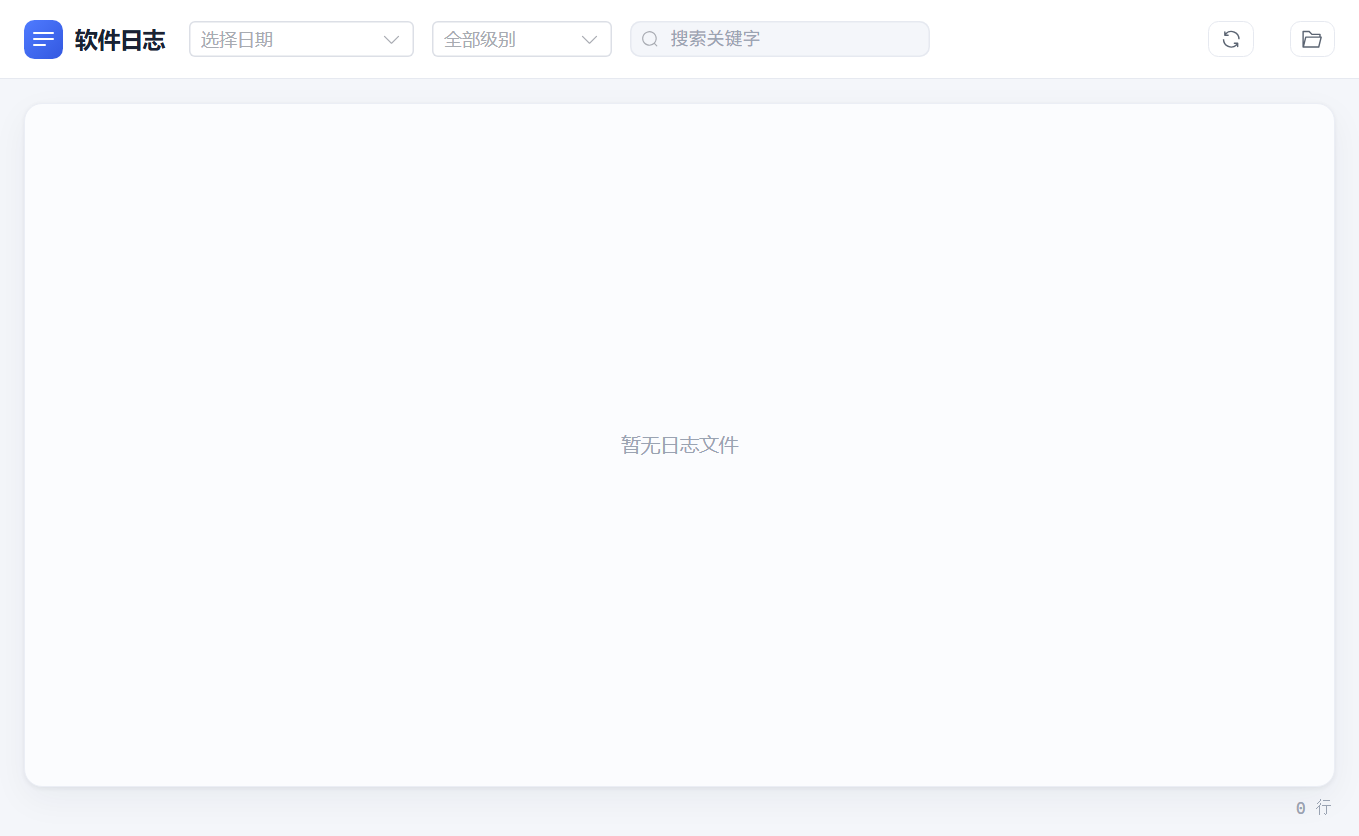
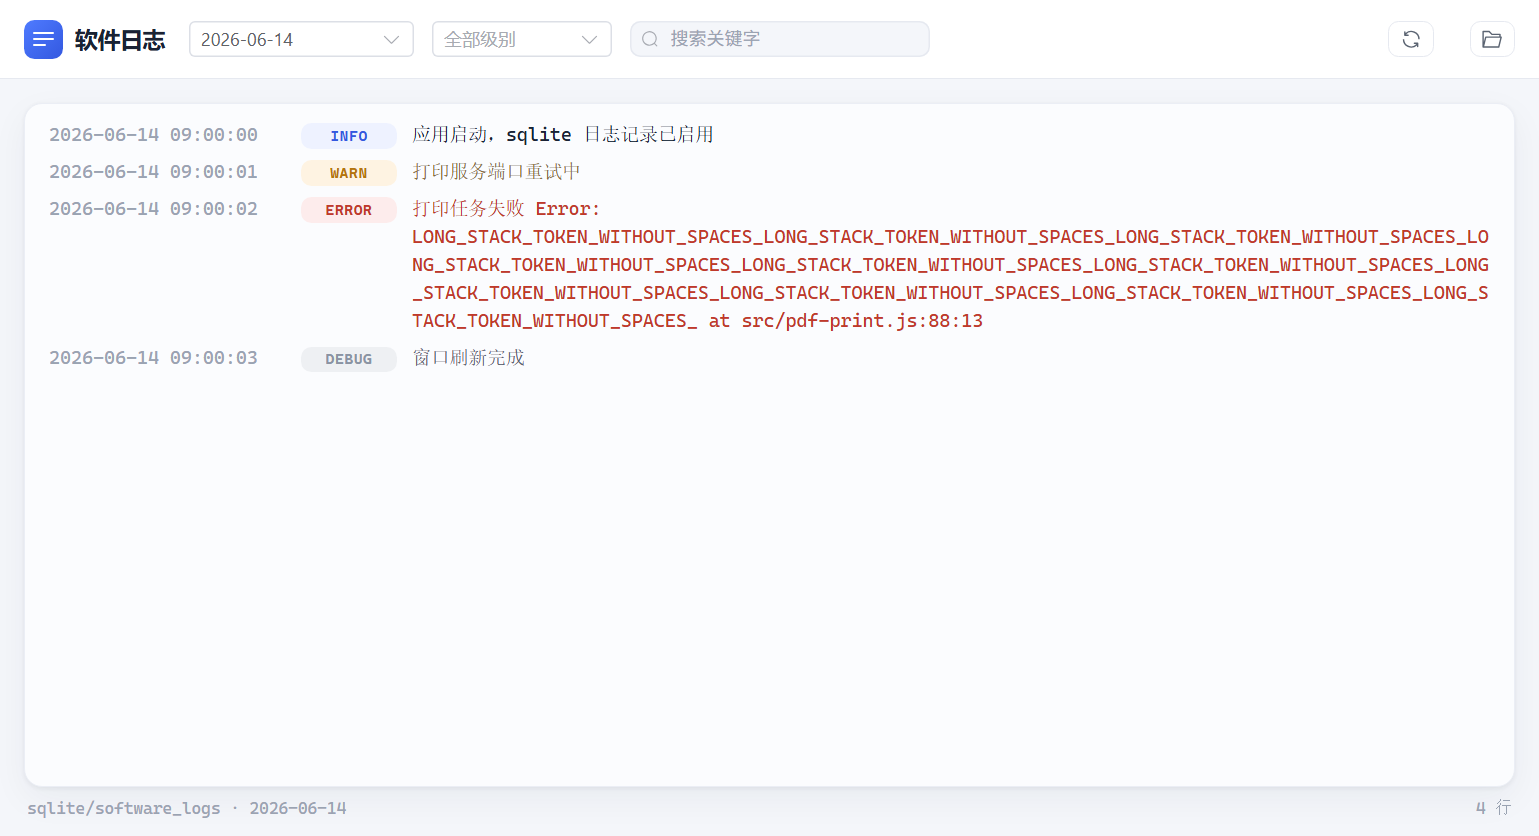
Keep log windows visually inspectable
The print log status column was narrower than the Element Plus cell content, so populated rows showed an ellipsis after the status pill even though the pill text itself fit. The capture harness also generated empty/stale log screenshots, which hid the real visual state of the sqlite-backed software log window.

Constraint: Log windows load generated assets/*.html in packaged/runtime verification.

Rejected: Only refreshing screenshots | would preserve the status-cell clipping defect.

Confidence: high

Scope-risk: narrow

Directive: Keep print/software log visual smoke checks on generated app:// assets, not only Vue source.

Tested: npm run build:renderer

Tested: npm run typecheck

Tested: npx electron tools/repro/runtime/printlog-scroll-layout-check.js

Tested: npx electron tools/repro/runtime/softwarelog-window-render-smoke.js

Tested: npx electron tools/repro/runtime/printlog-window-render-smoke.js

Tested: node tools/repro/runtime/software-log-sqlite-contract-check.js

Tested: HIPRINT_CAPTURE_TARGETS=printLog,softwareLog npx electron tools/repro/runtime/capture-windows.js

Not-tested: Full installer rebuild and reinstall for this UI-only change.

diff --git a/tools/repro/runtime/capture-windows.js b/tools/repro/runtime/capture-windows.js
@@ -2,6 +2,8 @@
 
 // 截取已迁移窗口的真实渲染图（需真实 Electron），用于 UI 审查。
 // 经 app:// 加载各窗口 + 真实 preload，capturePage 存 PNG 到 docs/ui-redesign/rendered-*.png。
+// 可选：HIPRINT_CAPTURE_TARGETS=printLog,softwareLog 只截指定窗口；
+//      HIPRINT_CAPTURE_OUT_DIR=.omx/artifacts/ui-capture 输出到临时目录。
 // 运行：npx electron tools/repro/runtime/capture-windows.js
 
 const path = require("path");
@@ -34,6 +36,33 @@ ipcMain.on("hiprint:settings-snapshot", (event) => {
   };
 });
 ipcMain.on("setContentSize", () => {});
+ipcMain.on("request-logs", (event) => {
+  event.sender.send("print-logs", {
+    rows: buildPrintLogRows(18),
+    total: 18,
+  });
+});
+ipcMain.on("clear-logs", () => {});
+ipcMain.on("reprint", () => {});
+ipcMain.handle("software-log:list-dates", () => ["2026-06-14", "2026-06-13"]);
+ipcMain.handle("software-log:read", (_event, date) => ({
+  file: String(date),
+  truncated: false,
+  lines: [
+    { ts: "2026-06-14 09:00:00", level: "info", msg: "应用启动，sqlite 日志记录已启用" },
+    { ts: "2026-06-14 09:00:01", level: "warn", msg: "打印服务端口重试中" },
+    {
+      ts: "2026-06-14 09:00:02",
+      level: "error",
+      msg:
+        "打印任务失败 Error: " +
+        "LONG_STACK_TOKEN_WITHOUT_SPACES_".repeat(10) +
+        " at src/pdf-print.js:88:13",
+    },
+    { ts: "2026-06-14 09:00:03", level: "debug", msg: "窗口刷新完成" },
+  ],
+}));
+ipcMain.on("software-log:open-folder", () => {});
 
 const {
   registerAssetSchemeAsPrivileged,
@@ -43,8 +72,32 @@ const {
 registerAssetSchemeAsPrivileged();
 app.disableHardwareAcceleration();
 
-const OUT_DIR = path.join(REPO_ROOT, "docs/ui-redesign");
-const TARGETS = [
+function buildPrintLogRows(count) {
+  return Array.from({ length: count }, (_, index) => ({
+    id: index + 1,
+    timestamp: `2026-06-14 09:${String(index).padStart(2, "0")}:00`,
+    clientType: index % 2 ? "transit" : "local",
+    printer: index % 3 ? "ZDesigner ZT211-203dpi ZPL" : "Microsoft Print to PDF",
+    templateId: `shipping-label-${index + 1}`,
+    pageNum: (index % 4) + 1,
+    status: index % 5 ? "success" : "failed",
+    errorMessage: index % 5
+      ? ""
+      : "打印机返回超长错误：" + "PAPER_OUT_STATUS_TOKEN_".repeat(8),
+    rePrintAble: 1,
+  }));
+}
+
+const OUT_DIR = process.env.HIPRINT_CAPTURE_OUT_DIR
+  ? path.resolve(REPO_ROOT, process.env.HIPRINT_CAPTURE_OUT_DIR)
+  : path.join(REPO_ROOT, "docs/ui-redesign");
+const TARGET_FILTER = new Set(
+  String(process.env.HIPRINT_CAPTURE_TARGETS || "")
+    .split(",")
+    .map((name) => name.trim())
+    .filter(Boolean),
+);
+const ALL_TARGETS = [
   { name: "index", preload: "src/preload/index.js", width: 500, height: 300 },
   { name: "set", preload: "src/preload/set.js", width: 520, height: 720 },
   {
@@ -56,10 +109,12 @@ const TARGETS = [
   {
     name: "softwareLog",
     preload: "src/preload/softwareLog.js",
-    width: 920,
+    width: 1040,
     height: 620,
   },
 ];
+const TARGETS =
+  TARGET_FILTER.size > 0 ? ALL_TARGETS.filter((target) => TARGET_FILTER.has(target.name)) : ALL_TARGETS;
 
 async function captureOne(target) {
   const win = new BrowserWindow({
@@ -85,6 +140,21 @@ async function captureOne(target) {
   return outPath;
 }
 
+let finished = false;
+function finish(saved, code) {
+  if (finished) return;
+  finished = true;
+  console.log("CAPTURE_DONE " + JSON.stringify(saved));
+  app.exit(code);
+  const forceExit = setTimeout(() => process.exit(code), 1000);
+  forceExit.unref && forceExit.unref();
+}
+
+const killTimer = setTimeout(() => {
+  finish([{ error: "timeout" }], 1);
+}, 90000);
+killTimer.unref && killTimer.unref();
+
 app.whenReady().then(async () => {
   registerAssetProtocol();
   if (!fs.existsSync(OUT_DIR)) fs.mkdirSync(OUT_DIR, { recursive: true });
@@ -96,8 +166,8 @@ app.whenReady().then(async () => {
       console.log("CAPTURE_ERROR " + target.name + " " + String(err));
     }
   }
-  console.log("CAPTURE_DONE " + JSON.stringify(saved));
-  app.exit(0);
+  clearTimeout(killTimer);
+  finish(saved, 0);
 });
 
 app.on("window-all-closed", () => {});

diff --git a/tools/repro/runtime/softwarelog-window-render-smoke.js b/tools/repro/runtime/softwarelog-window-render-smoke.js
@@ -3,7 +3,8 @@
 // 软件日志窗口 SFC 渲染冒烟（需真实 Electron）。
 // 经 app:// 加载已构建的 assets/softwareLog.html，附真实 src/preload/softwareLog.js（暴露 hiprintSoftwareLog 桥）。
 // 断言：加载成功、origin 为 app://bundle、桥注入、Vue 根挂载、顶栏品牌/日期选择/级别选择/搜索框、
-//       console 渲染出日志行与级别标签、刷新/打开数据库目录按钮、sqlite 页脚来源、无脚本错误。
+//       console 渲染出日志行与级别标签、刷新/打开数据库目录按钮、sqlite 页脚来源、
+//       长异常日志不会撑出横向滚动条、底栏可见、无脚本错误。
 // preload 用 ipcRenderer.invoke（异步）取日期/读日志，故 harness 用 ipcMain.handle 应答以驱动真实挂载。
 // 运行：npx electron tools/repro/runtime/softwarelog-window-render-smoke.js
 // 约定：stdout 打印 SMOKE_RESULT <json>，failed=false 且退出码 0 表示通过。
@@ -25,6 +26,14 @@ ipcMain.handle("software-log:read", (_event, date) => ({
     { ts: "2026-06-10 10:00:00", level: "info", msg: "服务已启动" },
     { ts: "2026-06-10 10:00:01", level: "warn", msg: "端口占用，重试中" },
     { ts: "2026-06-10 10:00:02", level: "error", msg: "连接失败" },
+    {
+      ts: "2026-06-10 10:00:03",
+      level: "error",
+      msg:
+        "Error: " +
+        "LONG_STACK_TOKEN_WITHOUT_SPACES_".repeat(18) +
+        " at src/pdf-print.js:88:13",
+    },
   ],
 }));
 ipcMain.on("software-log:open-folder", () => {});
@@ -96,6 +105,22 @@ app.whenReady().then(async () => {
       out.footerText = (document.querySelector('.footer') || {}).textContent || '';
       out.logRowCount = document.querySelectorAll('.console .log-row').length;
       out.levelLabelCount = document.querySelectorAll('.console .log-level').length;
+      const topbar = document.querySelector('.topbar');
+      const consoleEl = document.querySelector('.console');
+      const footer = document.querySelector('.footer');
+      const footerRect = footer ? footer.getBoundingClientRect() : null;
+      const rows = Array.from(document.querySelectorAll('.console .log-row'));
+      out.geom = {
+        winW: window.innerWidth,
+        winH: window.innerHeight,
+        docHorizontalScrollable: document.documentElement.scrollWidth > window.innerWidth + 1,
+        docVerticalScrollable: document.documentElement.scrollHeight > window.innerHeight + 1,
+        topbarHorizontalScrollable: topbar ? topbar.scrollWidth > topbar.clientWidth + 1 : true,
+        consoleHorizontalScrollable: consoleEl ? consoleEl.scrollWidth > consoleEl.clientWidth + 1 : true,
+        consoleVerticalScrollable: consoleEl ? consoleEl.scrollHeight > consoleEl.clientHeight + 1 : false,
+        footerVisible: footerRect ? footerRect.bottom <= window.innerHeight + 1 && footerRect.top >= 0 : false,
+        rowsFit: rows.every((row) => row.scrollWidth <= row.clientWidth + 1),
+      };
       return out;
     })()`);
     result.probe = probe;
@@ -157,14 +182,28 @@ app.whenReady().then(async () => {
       result.failed = true;
       result.steps.push({ step: "file-log-footer-present", got: probe.footerText });
     }
-    // 3 条注入日志应渲染为 3 行 + 3 个级别标签
-    if (probe.logRowCount !== 3 || probe.levelLabelCount !== 3) {
+    // 4 条注入日志应渲染为 4 行 + 4 个级别标签，其中最后一条是无空格长异常文本。
+    if (probe.logRowCount !== 4 || probe.levelLabelCount !== 4) {
       result.failed = true;
       result.steps.push({
         step: "log-rows-wrong",
         rows: probe.logRowCount,
         levels: probe.levelLabelCount,
       });
+    }
+    const geom = probe.geom || {};
+    const layoutChecks = {
+      "window-not-horizontally-scrollable": geom.docHorizontalScrollable === false,
+      "window-not-vertically-scrollable": geom.docVerticalScrollable === false,
+      "topbar-not-horizontally-scrollable": geom.topbarHorizontalScrollable === false,
+      "console-not-horizontally-scrollable": geom.consoleHorizontalScrollable === false,
+      "rows-not-horizontally-scrollable": geom.rowsFit === true,
+      "footer-visible": geom.footerVisible === true,
+    };
+    const failedLayout = Object.keys(layoutChecks).filter((key) => !layoutChecks[key]);
+    if (failedLayout.length > 0) {
+      result.failed = true;
+      result.steps.push({ step: "layout-checks-failed", failedLayout, geom });
     }
     if (result.consoleErrors.length > 0) {
       result.failed = true;

diff --git a/tools/repro/runtime/printlog-scroll-layout-check.js b/tools/repro/runtime/printlog-scroll-layout-check.js
@@ -10,7 +10,9 @@
 //   2) 表体可内部滚动（el-scrollbar__wrap scrollHeight > clientHeight）
 //   3) 分页固定且完整可见（getBoundingClientRect().bottom <= innerHeight）
 //   4) 不出现横向滚动条（筛选区/表格区均不得撑宽窗口）
-//   5) 表格区有确定高度（flex 解析出像素高，>0）
+//   5) 筛选按钮不被挤到第二行
+//   6) 状态徽章不被状态列裁剪成省略号
+//   7) 表格区有确定高度（flex 解析出像素高，>0）
 // 运行：npx electron tools/repro/runtime/printlog-scroll-layout-check.js
 // 约定：stdout 打印 LAYOUT_RESULT <json>，failed=false 且退出码 0 表示通过。
 
@@ -73,7 +75,7 @@ function fail(message) {
 app.whenReady().then(async () => {
   registerAssetProtocol();
   const win = new BrowserWindow({
-    width: 1100,
+    width: 1040,
     height: 600,
     show: false,
     webPreferences: {
@@ -126,6 +128,18 @@ app.whenReady().then(async () => {
       rowCount: document.querySelectorAll('.table .el-table__body tr').length,
       paginationBottom: pr ? Math.round(pr.bottom) : -1,
       paginationVisible: pr ? (pr.bottom <= window.innerHeight + 1 && pr.top >= 0) : false,
+      searchFormHeight: Math.round(document.querySelector('.search-form')?.getBoundingClientRect().height || -1),
+      filterFirstTop: Math.round(document.querySelector('.filter-time')?.getBoundingClientRect().top || -1),
+      buttonTop: Math.round(document.querySelector('.search-btns')?.getBoundingClientRect().top || -1),
+      filterButtonsSameRow: (() => {
+        const first = document.querySelector('.filter-time')?.getBoundingClientRect();
+        const buttons = document.querySelector('.search-btns')?.getBoundingClientRect();
+        return !!first && !!buttons && Math.abs(first.top - buttons.top) <= 3;
+      })(),
+      statusCellsFit: Array.from(document.querySelectorAll('.status-pill')).every((pill) => {
+        const cell = pill.closest('.cell');
+        return cell && pill.scrollWidth <= cell.clientWidth + 1 && cell.scrollWidth <= cell.clientWidth + 1;
+      }),
     };
   })()`);
 
@@ -140,6 +154,8 @@ app.whenReady().then(async () => {
       geom.tableWrapHorizontalScrollable === false && geom.bodyHorizontalScrollable === false,
     "table-body-scrolls": geom.bodyScrollable === true,
     "pagination-fixed-visible": geom.paginationVisible === true,
+    "filter-actions-stay-on-first-row": geom.filterButtonsSameRow === true,
+    "status-cells-not-clipped": geom.statusCellsFit === true,
     "table-region-has-height": geom.tableWrapH > 0,
     "rows-rendered": geom.rowCount === 50,
     "no-console-errors": consoleErrors.length === 0,

diff --git a/src/renderer/app/windows/printLog/App.vue b/src/renderer/app/windows/printLog/App.vue
@@ -81,7 +81,7 @@ const columns: ColumnConfig[] = [
     width: '80px',
     formatter: (_row, _column, cellValue) => `${cellValue}页`,
   },
-  { prop: 'status', label: '状态', align: 'center', width: '74px', sortable: 'custom' },
+  { prop: 'status', label: '状态', align: 'center', width: '96px', sortable: 'custom' },
   { prop: 'errorMessage', label: '错误信息', showOverflowTooltip: true },
   { prop: 'action', label: '操作', align: 'center', width: '120px' },
 ]